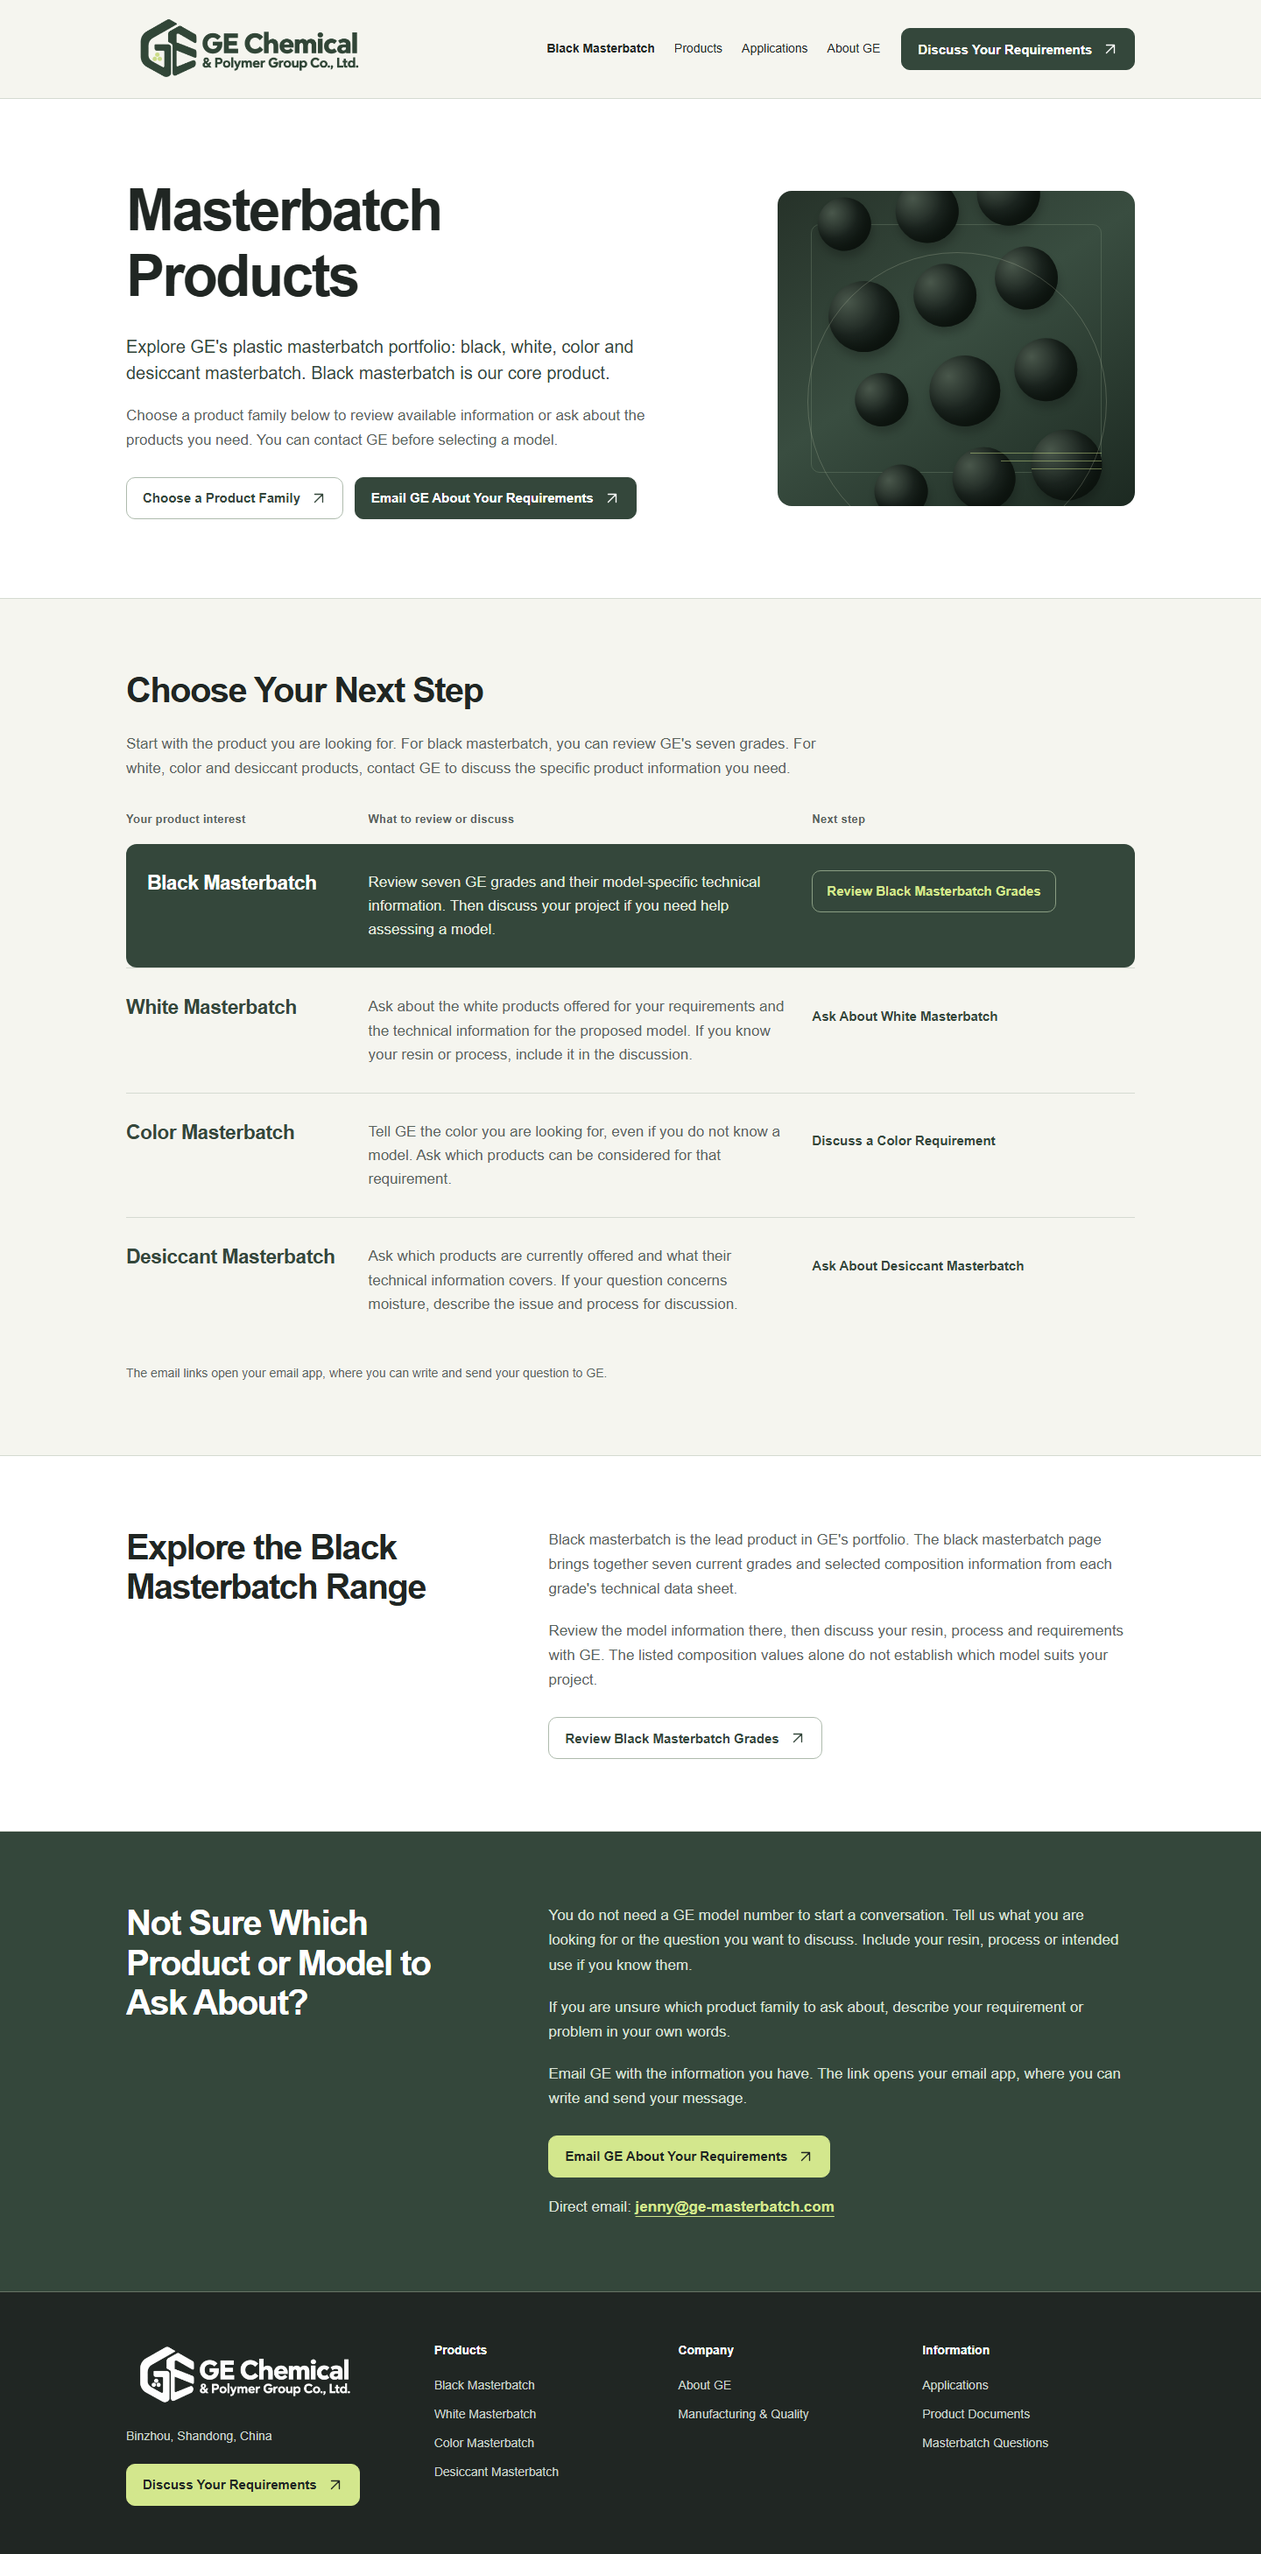
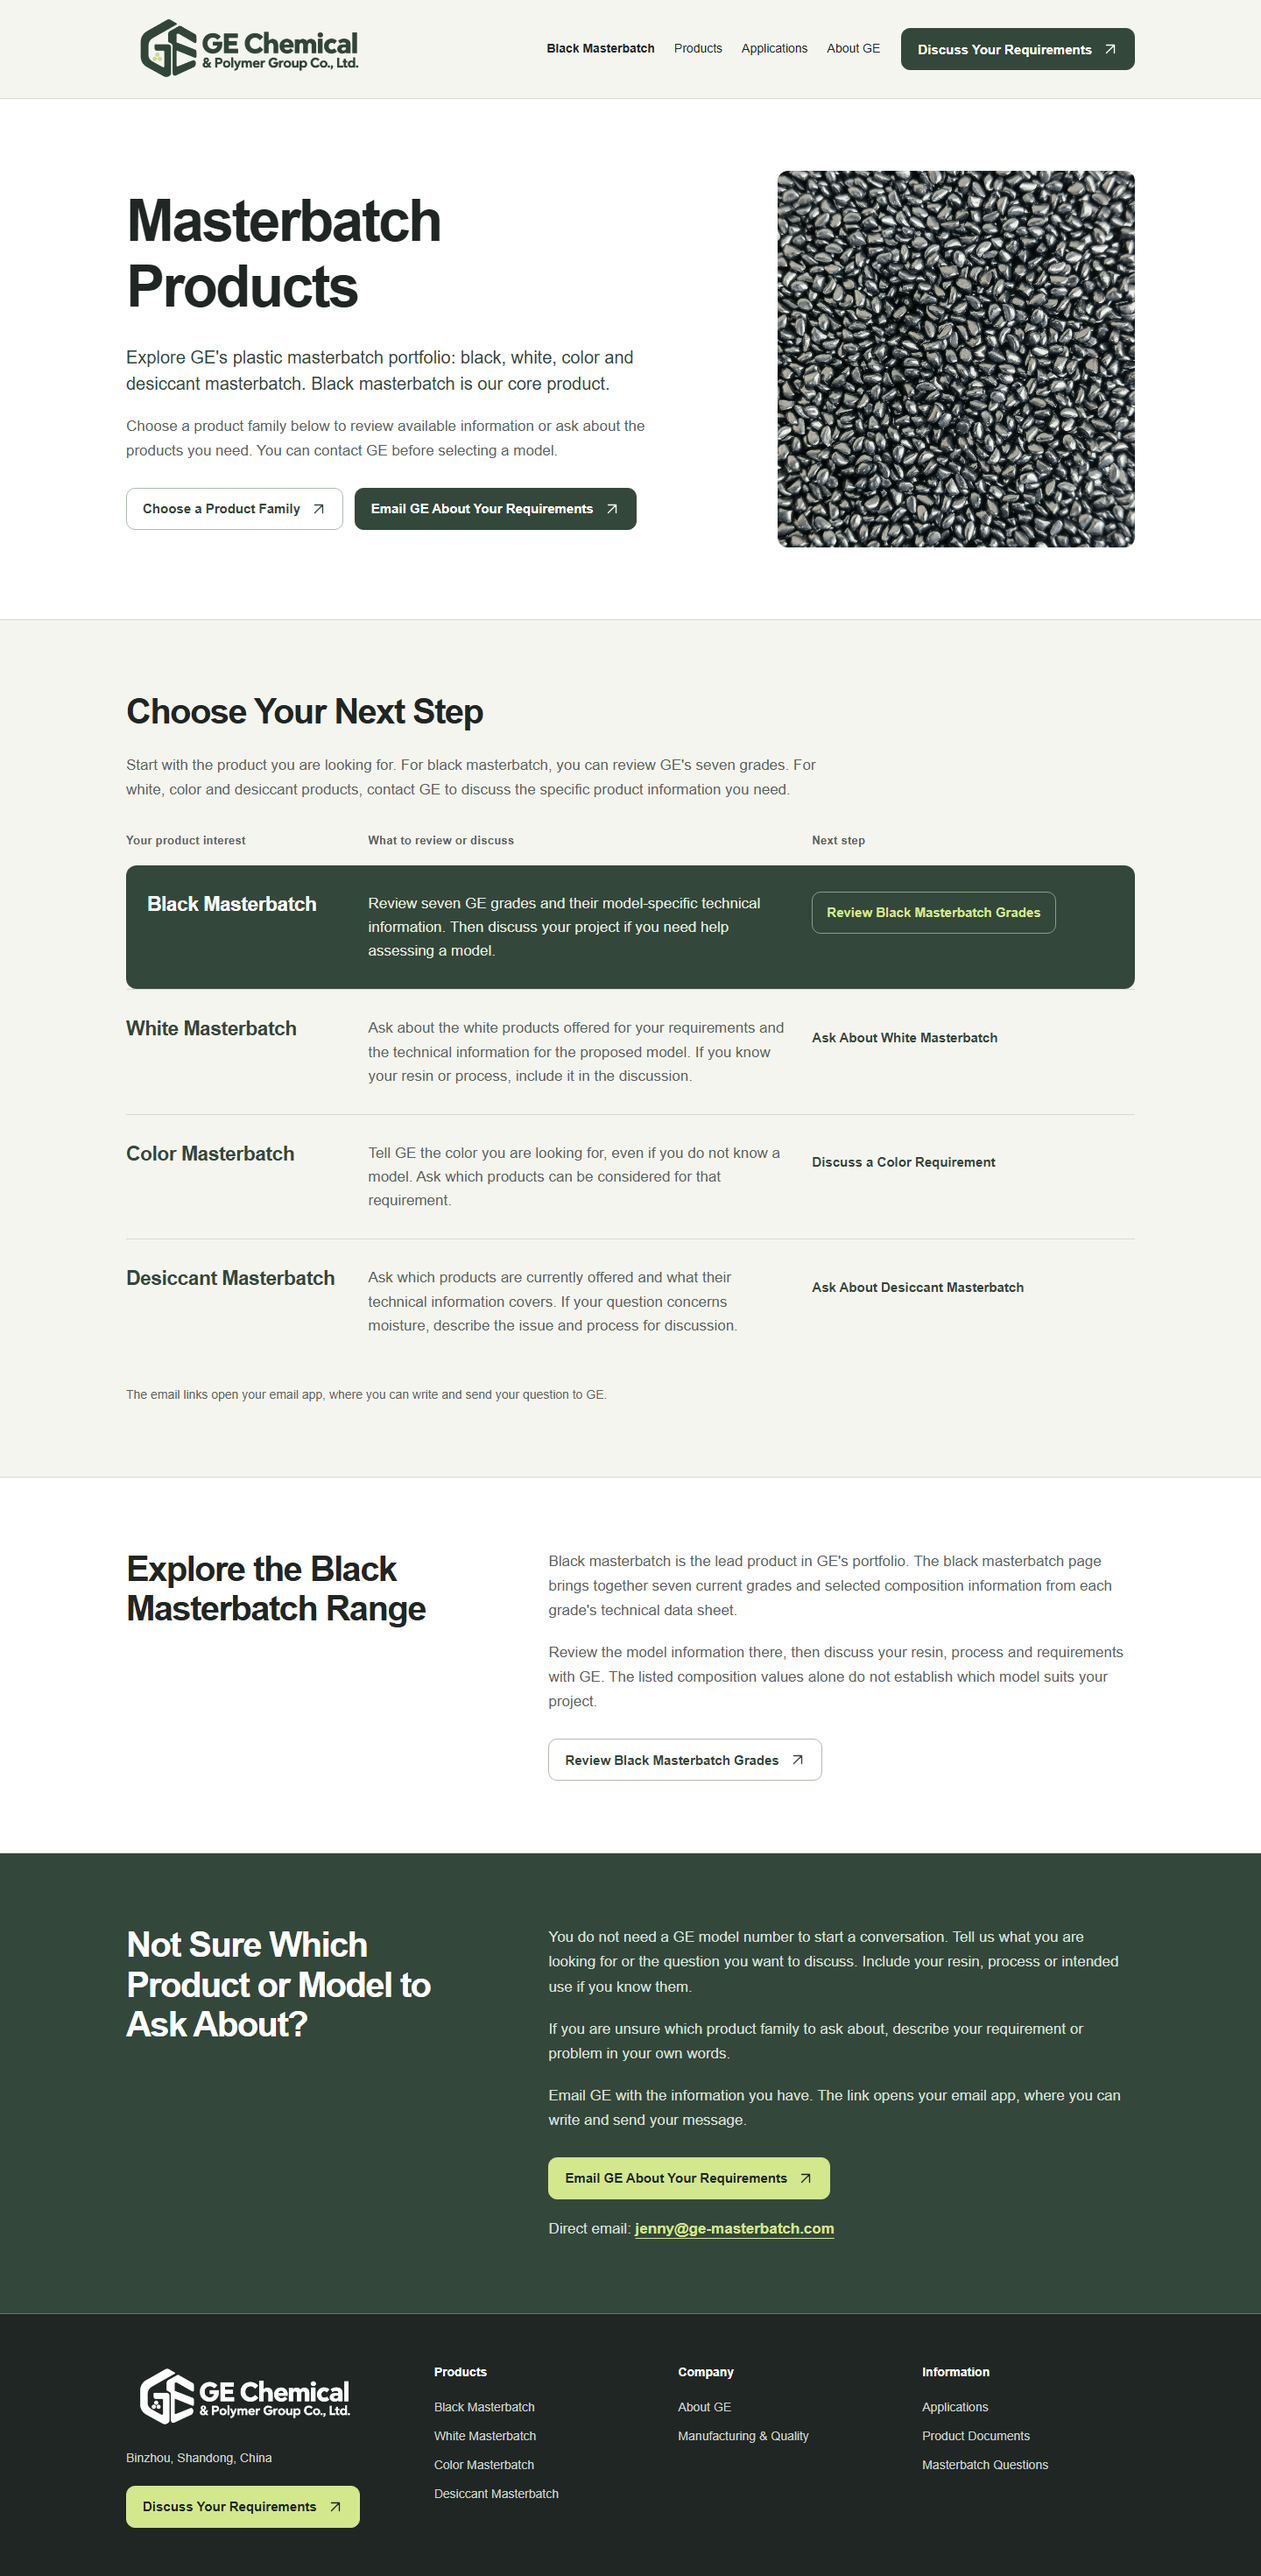
Replace P002 hero artwork with supplied black granule photo

diff --git a/planning/visuals/P002/p002-visual.css b/planning/visuals/P002/p002-visual.css
@@ -94,6 +94,8 @@ p{color:var(--muted);margin-bottom:20px}
 @media(prefers-reduced-motion:reduce){html{scroll-behavior:auto}.btn{transition:none}}
 /* P002: family selection preserves each interest, discussion and next-step relationship. */
 .hero-layout{grid-template-columns:1.25fr .75fr;gap:65px;min-height:570px}
+.hero-photo{height:430px;margin:0;overflow:hidden;border-radius:12px;background:#202623}
+.hero-photo img{display:block;width:100%;height:100%;object-fit:cover;object-position:50% 50%}
 .hero-art{height:360px}
 .hero-copy .action{display:inline-block;margin:8px 8px 0 0}
 .hero-copy .action:last-child{margin-right:0}
@@ -125,3 +127,5 @@ p{color:var(--muted);margin-bottom:20px}
 @media(max-width:1000px){.hero-layout{gap:34px;grid-template-columns:1.2fr .8fr}.hero-art{height:360px}.grain-field{padding:50px 24px}.family-table th:first-child{width:24%}.family-table th:nth-child(2){width:43%}.family-table th:last-child{width:33%}.family-table td{font-size:16px;padding-right:18px}.family-table td:first-child{font-size:21px}.family-table td a{font-size:14px}.family-table .lead-family td:first-child{padding-left:18px}.family-table .lead-family td:last-child{padding-right:18px}}
 @media(max-width:860px){.hero-layout{grid-template-columns:1fr}.hero-art{height:200px;max-width:none}.grain-field{grid-template-columns:repeat(6,1fr);padding:20px 50px;transform:rotate(-7deg)}.hero-art:after{width:300px;height:300px;top:-50px;left:calc(50% - 150px)}.family-table thead{display:none}.family-table,.family-table tbody{display:block}.family-table tbody{display:flex;flex-direction:column;gap:0}.family-table tr{display:grid;grid-template-columns:1fr 1fr;gap:0 28px;border-top:1px solid var(--line);padding:28px 0}.family-table td{display:block;border:0;padding:0;width:auto}.family-table td:first-child{grid-column:1/-1;margin-bottom:18px;font-size:25px}.family-table td:last-child{align-self:start}.family-table td:nth-child(2)::before,.family-table td:nth-child(3)::before{content:attr(data-label);display:block;font-size:12px;color:var(--muted);font-weight:700;margin-bottom:8px}.family-table .lead-family{background:var(--green);border:0;border-radius:12px;padding:28px 24px;margin-bottom:16px}.family-table .lead-family td:first-child,.family-table .lead-family td:last-child,.family-table .lead-family td{padding:0;border-radius:0}.family-table .lead-family td::before{color:#c9d5c1}.family-table .lead-family td a{margin-top:3px}.families>.shell>p:last-child{margin-top:0}}
 @media(max-width:600px){.hero-copy .action{display:block;margin:12px 0 0}.hero-copy .action .btn{width:100%}.hero-layout{gap:30px}.hero-art{height:190px}.grain-field{grid-template-columns:repeat(4,1fr);padding:20px 40px;gap:10px}.hero-copy>p:nth-of-type(2){font-size:16px}.family-table{margin-top:28px}.family-table tr{grid-template-columns:1fr;gap:0;padding:26px 0}.family-table td:first-child{margin-bottom:20px;font-size:25px}.family-table td:nth-child(2){margin-bottom:22px}.family-table td a{font-size:15px}.family-table .lead-family{padding:24px 22px;margin-bottom:8px}.family-table .lead-family td:nth-child(2){margin-bottom:24px}.family-table .lead-family td a{width:100%;justify-content:space-between}.family-table td:last-child a{min-height:48px}.black-range .action .btn,.closing .action .btn{width:100%}.closing h2{max-width:650px}.hero-art:after{width:230px;height:230px;top:-20px;left:calc(50% - 115px)}}
+@media(max-width:860px){.hero-photo{height:300px}}
+@media(max-width:600px){.hero-photo{height:250px}}

diff --git a/planning/visuals/P002/p002-visual.html b/planning/visuals/P002/p002-visual.html
@@ -3,7 +3,7 @@
 <p>Choose a product family below to review available information or ask about the products you need. You can contact GE before selecting a model.</p>
 <p class="action"><a class="btn secondary" href="#choose-your-next-step">Choose a Product Family<svg class="ui-icon" aria-hidden="true" focusable="false" xmlns="http://www.w3.org/2000/svg" viewBox="0 0 24 24" fill="none" stroke="currentColor" stroke-width="1.8" stroke-linecap="round" stroke-linejoin="round"><path d="M6 18 18 6M6 6h12v12"/></svg></a></p>
 <p class="action"><a class="btn primary" href="mailto:jenny@ge-masterbatch.com">Email GE About Your Requirements<svg class="ui-icon" aria-hidden="true" focusable="false" xmlns="http://www.w3.org/2000/svg" viewBox="0 0 24 24" fill="none" stroke="currentColor" stroke-width="1.8" stroke-linecap="round" stroke-linejoin="round"><path d="M6 18 18 6M6 6h12v12"/></svg></a></p>
-</div><div class="hero-art" aria-hidden="true"><div class="grain-field"><span></span><span></span><span></span><span></span><span></span><span></span><span></span><span></span><span></span><span></span><span></span><span></span></div><div class="art-line"></div><div class="art-line"></div><div class="art-line"></div></div></div></section><section class="families module" id="choose-your-next-step"><div class="shell"><h2>Choose Your Next Step</h2>
+</div><figure class="hero-photo"><img src="../../inputs/Cmp_Info/PIC&Vedio/%E5%BE%AE%E4%BF%A1%E5%9B%BE%E7%89%87_20260707174840_213_1.jpg" alt="Black masterbatch granules"></figure></div></section><section class="families module" id="choose-your-next-step"><div class="shell"><h2>Choose Your Next Step</h2>
 <p>Start with the product you are looking for. For black masterbatch, you can review GE&#39;s seven grades. For white, color and desiccant products, contact GE to discuss the specific product information you need.</p>
 <table class="family-table">
 <thead>

diff --git a/planning/pages/P002.md b/planning/pages/P002.md
@@ -330,3 +330,8 @@ After the independently reviewed Full Copy and the proposed Gate 3 step were pre
 - Static verification: exact approved body text checked by heading/paragraph/table cell, all nine main link labels/targets match, all four family relationships retained, Logo images load, and no horizontal overflow at 1440/768/390. The author inspected complete pages and readable module crops at each width; the parent additionally opened all complete exports and a readable phone family section. This verifies the drawing, not WordPress, email or actual destination availability.
 - Shared navigation/footer are appearance references and still include planned destinations; their presence does not establish working pages or `/rfq` behavior. Main content uses the approved P013, email and in-page routes. No blocker remains for static visual consideration; real actions, migration and later media decisions retain their recorded boundaries.
 - Owner visual confirmation is pending. No WordPress implementation or production release is authorized by this candidate. Status remains PLANNED.
+
+### Owner-requested Hero revision — 2026-10-03
+
+- Owner feedback: “hero的右侧的图片太差了。” The artificial decorative spheres were replaced with the supplied black-granule photograph `../inputs/Cmp_Info/PIC&Vedio/微信图片_20260707174840_213_1.jpg`, previously provisionally used on P001. The original image is unchanged; the draft uses layout cropping and alt text `Black masterbatch granules`. It depicts black granules only, not the White/Color/Desiccant families or a particular grade, stock, performance or compliance result. Existing source identity/date/production-rights limits remain recorded in P001 and INPUT_REVIEW.
+- Updated complete 1440/768/390 exports and editable source retain exact approved body copy and all nine main links. Images load and no horizontal overflow was found; the author inspected each Hero at readable size and the parent opened the [desktop Hero preview](../visuals/P002/p002-hero-1440.png). This replaces the earlier decorative-Hero choice; other module/content decisions remain applicable. Owner visual confirmation is pending.
